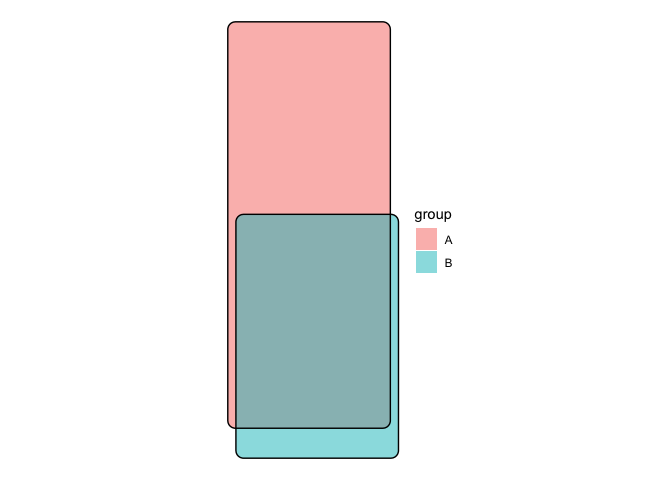
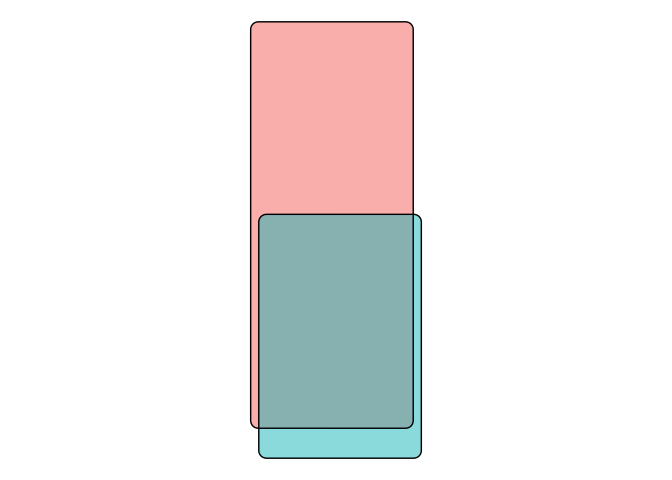
Remove legend from setreuler_plot and update README

Changed region(s): [[0.3125, 0.0312, 0.4062, 0.9688], [0.5625, 0.0312, 0.6875, 0.9688]]

diff --git a/README.md b/README.md
@@ -20,44 +20,25 @@ devtools::install_github("kylebittinger/setreuler")
 
 ## Example
 
+``` r
+library(tidyverse)
+```
+
 This is a basic example which shows you how to solve a common problem:
 
 ``` r
-library(tidyverse)
-#> ── Attaching packages ─────────────────────────────────────── tidyverse 1.3.1 ──
-#> ✓ ggplot2 3.3.5     ✓ purrr   0.3.4
-#> ✓ tibble  3.1.3     ✓ dplyr   1.0.7
-#> ✓ tidyr   1.1.3     ✓ stringr 1.4.0
-#> ✓ readr   2.0.1     ✓ forcats 0.5.1
-#> ── Conflicts ────────────────────────────────────────── tidyverse_conflicts() ──
-#> x readr::edition_get()   masks testthat::edition_get()
-#> x dplyr::filter()        masks stats::filter()
-#> x purrr::is_null()       masks testthat::is_null()
-#> x dplyr::lag()           masks stats::lag()
-#> x readr::local_edition() masks testthat::local_edition()
-#> x dplyr::matches()       masks tidyr::matches(), testthat::matches()
-
-in_a <- rep(c(T, F), c(10, 1))
-in_b <- rep(c(F, T), c(5, 6))
-
-d <- tibble::tibble(
+myset_data <- tibble::tibble(
   label = LETTERS[1:11],
-  setA = in_a,
-  setB = in_b)
+  setA = rep(c(T, F), c(10, 1)),
+  setB = rep(c(F, T), c(5, 6)))
 
-d_coords <- d %>%
+myset_coords <- myset_data %>%
   summarize(setreuler_coordinates(setA, setB, offset = 0.1, width = 2))
-
-r <- grid::unit(2, "mm")
 ```
 
 ``` r
-d_coords %>%
-  ggplot(aes(x = x, y = y, group = group)) +
-  ggforce::geom_shape(aes(fill = group), alpha = 0.5, radius = r) +
-  ggforce::geom_shape(color = "black", fill = NA, radius = r) +
-  coord_equal() +
-  theme_void()
+myset_coords %>%
+  setreuler_plot(radius = grid::unit(2, "mm"))
 ```
 
 <img src="man/figures/README-example_plot-1.png" width="100%" />
